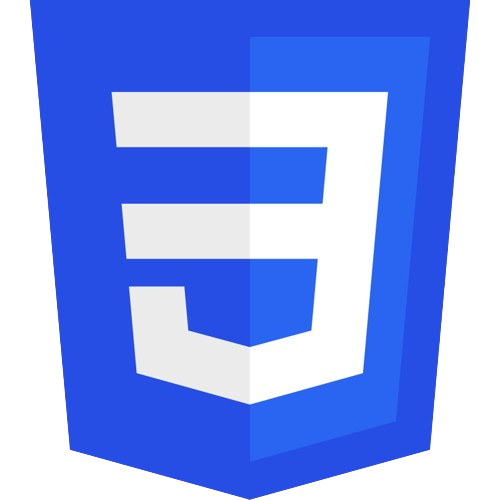
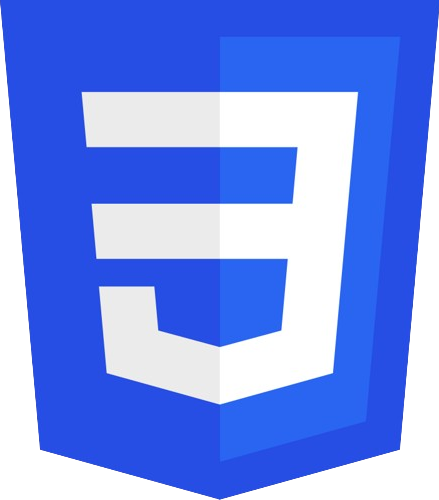
alteração 50.1

diff --git a/index.html b/index.html
@@ -33,7 +33,7 @@
            
     </div>
 
-    <div style="background-color: rgb(71, 8, 154); height: 45vw; width: 98.9vw;">
+    <div style="background-color: rgb(71, 8, 154); height: 44vw; width: 98.9vw;">
         
         <div style="margin-left: 32vw;" id="div1">
             <h1 id="TEXTO">Minhas Qualidades</h1>
@@ -45,29 +45,29 @@
         </div>
     </div>
 
-    <div style="vertical-align: middle; height: 800px;">
-        <div>
+    <div style="height: 47vw; width: 98.9vw;">
+        <div style="height: 8vw;">
             <h1 id="TEXTO">Minhas Especialidades</h1>
         </div>
-        <div >
+        <div style="height: 30vw; width: 98.9vw;">
             <div id="div03" >
-                <h1 style="margin-left: 50px;" id="qua">Python</h1>
-                <img src="imagens/PythonIMG.png" alt="Imagem da linguagem Python" id="texto" class="python">
+                <h1 style="margin-left: 4vw;" id="qua">Python</h1>
+                <img style="padding: 1.6vw;" src="imagens/PythonIMG.png" alt="Imagem da linguagem Python" class="python">
             </div>
             <div id="div3">
-                <h1 style="margin-left: 56px;" id="qua">C++</h1>
-                <img src="imagens/CIMG.png" alt="Imagem da linguagem C++" id="texto" class="CP" >
+                <h1 style="margin-left: 4vw; margin-bottom: -0.8vw;" id="qua">C++</h1>
+                <img src="imagens/CIMG.png" alt="Imagem da linguagem C++" class="CP" >
             </div>
-            <div style="margin-left: 100px;" id="div3">
-                <h1 style="margin-left: 57px;" id="qua">HTML</h1>
+            <div id="div3">
+                <h1 style="margin-left: 4vw; margin-bottom: 1vw;" id="qua">HTML</h1>
                 <img  src="imagens/HTMLIMG.png" alt="Imagem da linguagem HTML" id="texto" class="HTMLC">
             </div>
-            <div  id="div3">
-                <h1 style="margin-left: 49px;" id="qua">CSS</h1>
+            <div id="div3">
+                <h1 style="margin-left: 4vw; margin-top: -1vw;" id="qua">CSS</h1>
                 <img src="imagens/CSSIMG.png" alt="Imagem da linguagem CSS" id="texto" class="CP">
             </div>
             <div id="div3">
-                <h1 style="margin-left: -11px;" id="qua">JavaScript</h1>
+                <h1 style="margin-left: -1vw; margin-top: -1vw;" id="qua">JavaScript</h1>
                 <img  src="imagens/JAVASCRIPTIMG.png" alt="Imagem da linguagem JAVASCRIPT" id="texto" class="CP">
             </div>
         </div>

diff --git a/estilo.css b/estilo.css
@@ -315,44 +315,42 @@ left: 0;
 /* TRANSIÇÕES DAS ESPECIALIDADES*/
 .python{
     display: inline;
-    vertical-align: middle;
-    width: 210px;
-    height: 190px;
+    width: 12vw;
+    height: 12vw;
     transition-duration: 1s;
+    margin-bottom: -2vw;
 }
 .python:hover{
     display: inline;
-    align-items: center;
-    width: 250px;
-    height: 220px;
-    margin-left: -20px;
-    text-align: center;       
+    width: 12.2vw;
+    height: 12.4vw;
+    margin-left: -0.32vw;       
 }
 .CP{   
-    vertical-align: middle;
-    width: 185px;
-    height: 200px;
+    display: inline;
+    width: 12vw;
+    height: 13vw;
     transition-duration: 1s;
+    margin-top: 2vw;
 }
 .CP:hover{
-    width: 205px;
-    height: 230px;
-    margin-left: -10px;
-    text-align: center;
+    display: inline;
+    width: 12.5vw;
+    height: 13.5vw;
     
 }
 .HTMLC{
     display: inline;
-    
-    width: 230px;
-    height: 190px;
+    width: 12vw;
+    height: 13vw;
     transition-duration: 1s;
+    margin-left: 1.5vw;
+
 }
 .HTMLC:hover{
     display: inline;
-   
-    width: 235px;
-    height: 200px;
-    text-align: center;
-    margin-left: -2px;
+    width: 12.2vw;
+    height: 13.2vw;
+    
+    
 }

diff --git a/estilo2.css b/estilo2.css
@@ -15,17 +15,16 @@ body{
     display: flex;
 }
 #div3{
-    width: 100px;
-    height: 80px;
-    margin-left: 180px;
-    display: flex;
+    width: 19vw;
+    height: 25vw;
+    margin-left: -3vw;
+    display: inline-block;
 }
 #div03{
-    width: 100px;
-    height: 80px;
-    
-    margin-left: 150px;
-    display: flex;
+    width: 19vw;
+    height: 25vw;
+    margin-left: 5vw;
+    display: inline-block;
 }
 #div4{
     display: flex;
@@ -82,9 +81,9 @@ body{
 }
 #qua{
     color: rgb(165, 69, 255);
-    font-size: 40px;
+    font-size: 2.5vw;
     font-family: cursive;
-    display: inline-block;
+    display: flex;
     
     
 }
